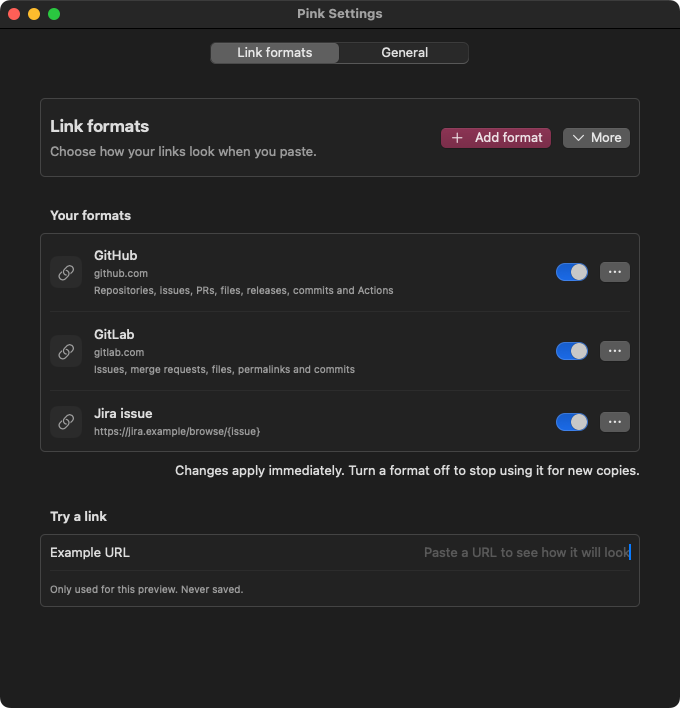
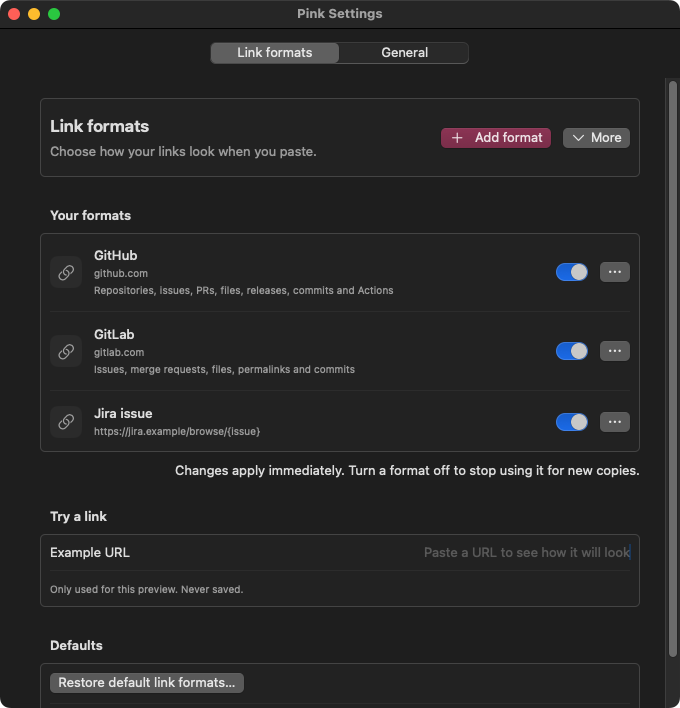
docs: refresh captured link format settings

Changed region(s): [[0.9574, 0.0932, 1.0, 0.9322], [0.0618, 0.9011, 0.3706, 0.9944]]

diff --git a/docs/images/README.md b/docs/images/README.md
@@ -3,7 +3,7 @@
 The README shows four real Pink views:
 
 - `menu-bar.png`: the menu-bar icon and formatting, settings and update actions.
-- `settings.png`: the unified Link formats collection, rose Add format action and included website formats, visible More menu, bordered row options and shared preview.
+- `settings.png`: the unified Link formats collection, rose Add format action and included website formats, visible More menu, bordered row options, shared preview and Restore default link formats.
 - `general.png`: the actual General section, selected through the app’s native section picker, with Show link icons enabled.
 - `link-formats.png`: the paste-first builder with a reserved-host Jira example. The issue key is selected automatically, the ticket-icon paste preview is visible, and the primary action is Use for Jira links. The selected part also has a checkmark. No pattern is supplied to the capture view.
 
@@ -23,4 +23,4 @@ The README uses matching light and dark image sources. The dark capture sets onl
 
 CI sets `PINK_CAPTURE_TEXT_EXPORT=1` to emit checksum-tagged base64 copies of the five fixed synthetic demo outputs (`menu-bar.png`, `settings.png`, `general.png`, `link-formats.png` and `capture.txt`) per appearance. This lets review tools inspect the original PNG bytes when artifact downloads are unavailable. Export is bounded to 1 MiB per file and never reads the general clipboard or user examples. Normal local captures omit this export.
 
-The committed images were captured on macOS 15.7.9 (24G830), Intel, with Xcode 26.2 in [CI run 162](https://github.com/mamachanko/pink/actions/runs/44543792877) at source PR head `c3482c30b0e96c96f49f614df8978b7d58fe586a`, then visually reviewed in light and dark appearance on 2026-11-19. See `capture.txt` for checksums and provenance.
+The original images were captured on macOS 15.7.9 (24G830), Intel, with Xcode 26.2 in [CI run 162](https://github.com/mamachanko/pink/actions/runs/44543792877) at source PR head `c3482c30b0e96c96f49f614df8978b7d58fe586a`, then visually reviewed in light and dark appearance on 2026-11-19. See `capture.txt` for later captures and current checksums.

diff --git a/README.md b/README.md
@@ -86,7 +86,7 @@ Pink works with single links, repeated links and multiline prose. It stays in yo
   <tr><th>In the menu bar</th><th>Your link formats</th></tr>
   <tr>
     <td align="center" valign="top"><a href="docs/images/menu-bar.png"><picture><source media="(prefers-color-scheme: dark)" srcset="docs/images/dark/menu-bar.png"><img src="docs/images/menu-bar.png" width="261" alt="Pink’s menu with formatting, restore, settings and update actions."></picture></a></td>
-    <td align="center" valign="top"><a href="docs/images/settings.png"><picture><source media="(prefers-color-scheme: dark)" srcset="docs/images/dark/settings.png"><img src="docs/images/settings.png" width="440" alt="Pink’s unified link format collection with GitHub and GitLab included-format summaries, Jira, Add format, a visible More menu, bordered row options and a shared preview."></picture></a></td>
+    <td align="center" valign="top"><a href="docs/images/settings.png"><picture><source media="(prefers-color-scheme: dark)" srcset="docs/images/dark/settings.png"><img src="docs/images/settings.png" width="440" alt="Pink’s unified link format collection with GitHub and GitLab included-format summaries, Jira, Add format, a visible More menu, bordered row options, a shared preview and Restore default link formats."></picture></a></td>
   </tr>
 </table>
 
